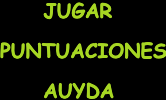
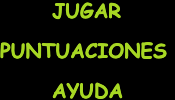
Update: los assets de menu y de botones

Changed region(s): [[0.0, 0.42, 1.0, 0.6], [0.241, 0.0, 0.6928, 0.21], [0.241, 0.81, 0.7229, 0.99]]

diff --git a/prac3/app/src/main/java/com/ldm/snakesprint/juego/PantallaJuego.java b/prac3/app/src/main/java/com/ldm/snakesprint/juego/PantallaJuego.java
@@ -242,7 +242,7 @@ public class PantallaJuego extends Pantalla {
     private void drawGameOverUI() {
         Graficos g = juego.getGraphics();
         g.drawPixmap(Assets.finjuego, 62, 100);
-        g.drawPixmap(Assets.botones, 128, 200, 0, 128, 64, 64);
+        g.drawPixmap(Assets.botones, 128, 200, 10, 130, 64, 64);
         g.drawLine(0, 416, 480, 416, Color.BLACK);
     }
 

diff --git a/prac3/app/src/main/java/com/ldm/snakesprint/juego/PantallaMaximasPuntuaciones.java b/prac3/app/src/main/java/com/ldm/snakesprint/juego/PantallaMaximasPuntuaciones.java
@@ -50,7 +50,7 @@ public class PantallaMaximasPuntuaciones extends Pantalla {
             y += 50;
         }
 
-        g.drawPixmap(Assets.botones, 0, 416, 64, 64, 64, 64);
+        g.drawPixmap(Assets.botones, 0, 416, 10, 130, 64, 64);
     }
 
     public void dibujarTexto(Graficos g, String linea, int x, int y) {
